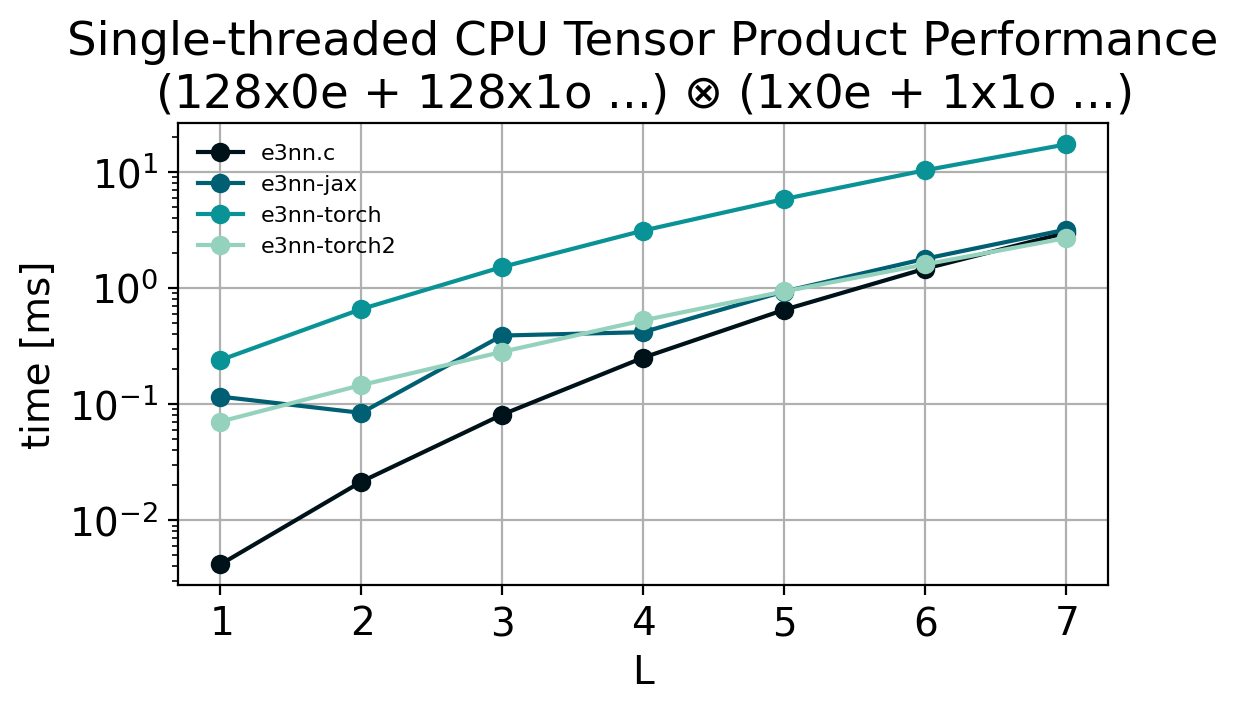
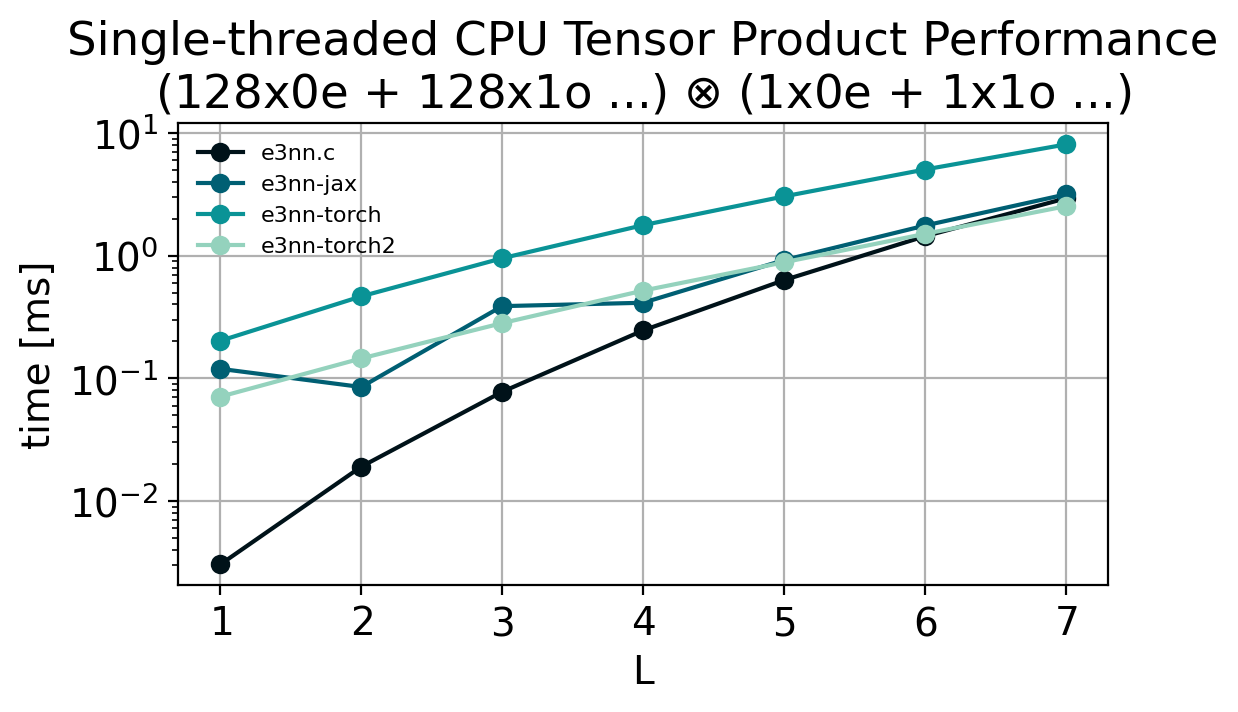
use random normal for benchmarking instead of zeros

diff --git a/extra/benchmark_python.py b/extra/benchmark_python.py
@@ -32,8 +32,8 @@ def run_e3nn_jax(lmax):
     irreps1 = e3nn_jax.Irreps.spherical_harmonics(lmax)
     irreps2 = irreps1 * channels
 
-    input1 = e3nn_jax.zeros(irreps1, ())
-    input2 = e3nn_jax.zeros(irreps2, ())
+    input1 = e3nn_jax.normal(irreps1, jax.random.PRNGKey(0), ())
+    input2 = e3nn_jax.normal(irreps2, jax.random.PRNGKey(0), ())
 
     tp = jax.jit(e3nn_jax.tensor_product)
     
@@ -49,8 +49,8 @@ def run_e3nn_torch(lmax):
         irreps2 = (channels * irreps1).sort().irreps.simplify()
 
 
-        input1 = irreps1.randn(-1) * 0
-        input2 = irreps2.randn(-1) * 0
+        input1 = irreps1.randn(-1)
+        input2 = irreps2.randn(-1)
 
         tp = e3nn_torch.o3.FullTensorProduct(irreps1, irreps2)
         tp = e3nn_torch.util.jit.compile(tp)
@@ -68,8 +68,8 @@ def run_e3nn_torch2(lmax):
         irreps1 = e3nn_torch.o3.Irreps.spherical_harmonics(lmax)
         irreps2 = (channels * irreps1).sort().irreps.simplify()
 
-        input1 = irreps1.randn(-1) * 0
-        input2 = irreps2.randn(-1) * 0
+        input1 = irreps1.randn(-1)
+        input2 = irreps2.randn(-1)
         tp = e3nn_torch.o3.experimental.FullTensorProductv2(irreps1, irreps2)
         tp = torch.compile(tp, mode="reduce-overhead", fullgraph=True)
 
@@ -84,8 +84,8 @@ def run_e3nn_torch2_ipex(lmax):
         irreps1 = e3nn_torch.o3.Irreps.spherical_harmonics(lmax)
         irreps2 = (channels * irreps1).sort().irreps.simplify()
 
-        input1 = irreps1.randn(-1) * 0
-        input2 = irreps2.randn(-1) * 0
+        input1 = irreps1.randn(-1)
+        input2 = irreps2.randn(-1)
         tp = e3nn_torch.o3.experimental.FullTensorProductv2(irreps1, irreps2)
         tp.eval()
         tp = ipex.optimize(tp, weights_prepack=False)

diff --git a/extra/benchmark_c_codegen.py b/extra/benchmark_c_codegen.py
@@ -11,15 +11,38 @@ print(
 """// autogenerated with:
 // python extra/benchmark_c_codegen.py > benchmark.c
 #include <stdio.h>
+#include <stdlib.h>
+#include <math.h>
 #include <time.h>
 
 #include "e3nn.h"
+
+float randn(void) {
+    static int generate = 0;
+    static float z0, z1;
+    generate = !generate;
+
+    if (!generate) {
+        return z1;
+    }
+
+    float u1, u2;
+    do {
+        u1 = (float)rand() / RAND_MAX;
+        u2 = (float)rand() / RAND_MAX;
+    } while (u1 <= 1e-7f);  // avoid log(0)
+
+    z0 = sqrtf(-2.0f * logf(u1)) * cosf(2.0f * M_PI * u2);
+    z1 = sqrtf(-2.0f * logf(u1)) * sinf(2.0f * M_PI * u2);
+    return z0;
+}
+
 
 int main(void) {
 """)
 
 for version in ["_v1", "_v2", "_v3"]:
-    print(f'printf("e3nn.c{version.replace("_", " ")}\\n");')
+    print(f'    printf("e3nn.c{version.replace("_", " ")}\\n");')
     for lmax in range(1, L):
         irreps1 = e3nn.Irreps.spherical_harmonics(lmax)
         irreps2 = irreps1 * channels
@@ -32,6 +55,13 @@ for version in ["_v1", "_v2", "_v3"]:
             float input1[{irreps1.dim}] = {{ 0 }};
             float input2[{irreps2.dim}] = {{ 0 }};
             float output[{irrepso.dim}] = {{ 0 }};
+
+            for (int i = 0; i < {irreps1.dim}; i++) {{
+                input1[i] = randn();
+            }}
+            for (int i = 0; i < {irreps2.dim}; i++) {{
+                input2[i] = randn();
+            }}
 
             // do once to build Clebsch-Gordan cache if necessary
             tensor_product{version}(irreps1, input1,
